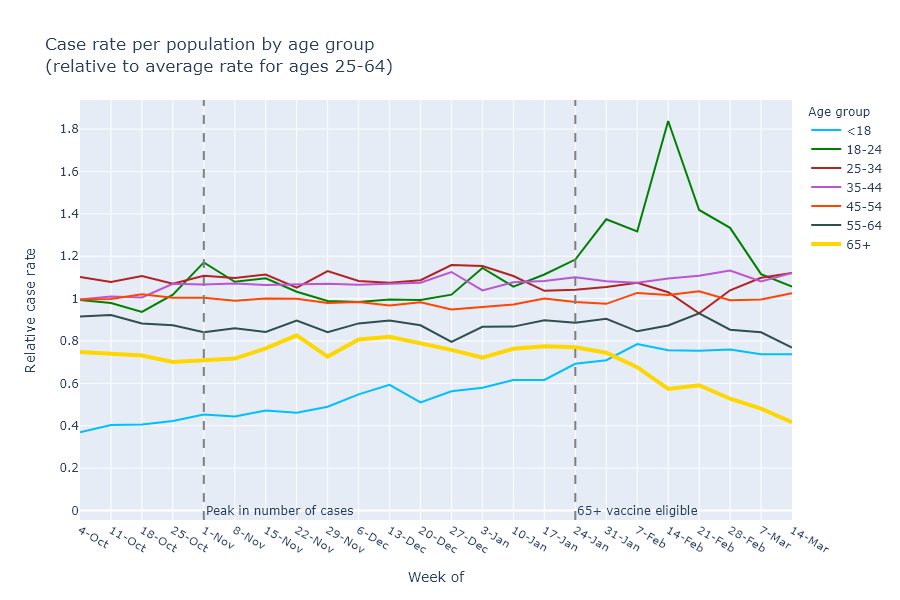
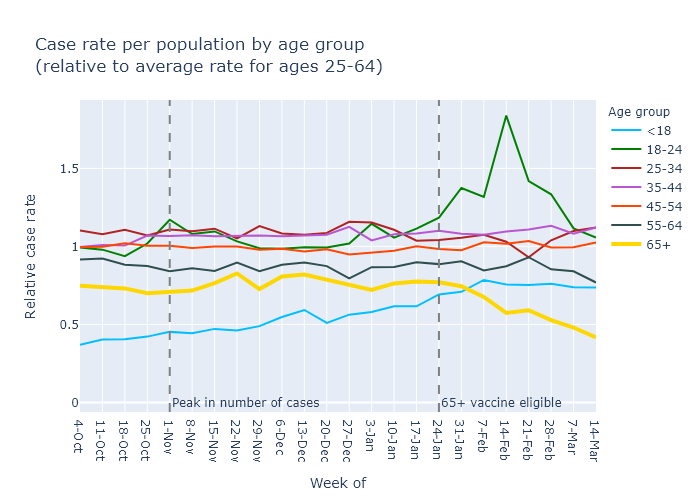
Plot update

Changed region(s): [[0.03, 0.06, 0.99, 0.99], [0.9, 0.9, 0.93, 0.93]]

diff --git a/docs/assets/plotly/CaseRateRelative-Age-Vaccine.html b/docs/assets/plotly/CaseRateRelative-Age-Vaccine.html
@@ -2,6 +2,6 @@
 <head><meta charset="utf-8" /></head>
 <body>
     <div>                        <script type="text/javascript">window.PlotlyConfig = {MathJaxConfig: 'local'};</script>
-        <script src="https://cdn.plot.ly/plotly-latest.min.js"></script>                <div id="7094463b-d644-48c4-b42c-b49eb8c41d9f" class="plotly-graph-div" style="height:500px; width:100%;"></div>            <script type="text/javascript">                                    window.PLOTLYENV=window.PLOTLYENV || {};                                    if (document.getElementById("7094463b-d644-48c4-b42c-b49eb8c41d9f")) {                    Plotly.newPlot(                        "7094463b-d644-48c4-b42c-b49eb8c41d9f",                        [{"hovertemplate": "Age group=<18<br>Week of=%{x}<br>Relative case rate=%{y}<extra></extra>", "legendgroup": "<18", "line": {"color": "deepskyblue", "dash": "solid"}, "mode": "lines", "name": "<18", "orientation": "v", "showlegend": true, "type": "scatter", "x": ["4-Oct", "11-Oct", "18-Oct", "25-Oct", "1-Nov", "8-Nov", "15-Nov", "22-Nov", "29-Nov", "6-Dec", "13-Dec", "20-Dec", "27-Dec", "3-Jan", "10-Jan", "17-Jan", "24-Jan", "31-Jan", "7-Feb", "14-Feb", "21-Feb", "28-Feb", "7-Mar", "14-Mar"], "xaxis": "x", "y": [0.3696901100057361, 0.40353974566147843, 0.4054767494556921, 0.42214903754933436, 0.452475434592763, 0.4441008389564592, 0.47159922332870824, 0.4616605421103092, 0.48941365153136523, 0.548037859290452, 0.5928631628556761, 0.5104661956869649, 0.562782413855569, 0.5798191600075194, 0.6162526755233644, 0.6159518417004679, 0.6924580318886813, 0.7093333634802653, 0.7852512821921568, 0.7561158829510572, 0.7534427264247662, 0.7600342843384881, 0.7379638211604383, 0.7368762217937043], "yaxis": "y"}, {"hovertemplate": "Age group=18-24<br>Week of=%{x}<br>Relative case rate=%{y}<extra></extra>", "legendgroup": "18-24", "line": {"color": "green", "dash": "solid"}, "mode": "lines", "name": "18-24", "orientation": "v", "showlegend": true, "type": "scatter", "x": ["4-Oct", "11-Oct", "18-Oct", "25-Oct", "1-Nov", "8-Nov", "15-Nov", "22-Nov", "29-Nov", "6-Dec", "13-Dec", "20-Dec", "27-Dec", "3-Jan", "10-Jan", "17-Jan", "24-Jan", "31-Jan", "7-Feb", "14-Feb", "21-Feb", "28-Feb", "7-Mar", "14-Mar"], "xaxis": "x", "y": [0.9938140016036552, 0.9794457143441914, 0.9372495356270916, 1.0184345530877692, 1.1706904101368314, 1.0794894448185972, 1.0961921746269305, 1.0324408487194188, 0.9883861634442025, 0.9844383768735897, 0.9952728744312905, 0.993862214329924, 1.018589658135286, 1.1445388627231765, 1.0564331580400532, 1.1138462470750128, 1.1842973816413893, 1.374333391743014, 1.3168059962914629, 1.8381437844155013, 1.4182451320936775, 1.3339377235328567, 1.1155267064053138, 1.057257187790967], "yaxis": "y"}, {"hovertemplate": "Age group=25-34<br>Week of=%{x}<br>Relative case rate=%{y}<extra></extra>", "legendgroup": "25-34", "line": {"color": "firebrick", "dash": "solid"}, "mode": "lines", "name": "25-34", "orientation": "v", "showlegend": true, "type": "scatter", "x": ["4-Oct", "11-Oct", "18-Oct", "25-Oct", "1-Nov", "8-Nov", "15-Nov", "22-Nov", "29-Nov", "6-Dec", "13-Dec", "20-Dec", "27-Dec", "3-Jan", "10-Jan", "17-Jan", "24-Jan", "31-Jan", "7-Feb", "14-Feb", "21-Feb", "28-Feb", "7-Mar", "14-Mar"], "xaxis": "x", "y": [1.10254638689946, 1.0788097723211383, 1.1067521112192251, 1.0698839670390943, 1.108103105125134, 1.097387715406263, 1.113541978829659, 1.0513269618057495, 1.1298572970899876, 1.0833896570232546, 1.0751404507745421, 1.0866742499093722, 1.1581224880168322, 1.153598537098294, 1.1067394988991035, 1.0368522668624542, 1.0419228330287633, 1.0551333781768946, 1.0751902171554146, 1.0298819785023021, 0.9307233679364758, 1.0392305520546674, 1.0983647570760013, 1.1213333809904196], "yaxis": "y"}, {"hovertemplate": "Age group=35-44<br>Week of=%{x}<br>Relative case rate=%{y}<extra></extra>", "legendgroup": "35-44", "line": {"color": "mediumorchid", "dash": "solid"}, "mode": "lines", "name": "35-44", "orientation": "v", "showlegend": true, "type": "scatter", "x": ["4-Oct", "11-Oct", "18-Oct", "25-Oct", "1-Nov", "8-Nov", "15-Nov", "22-Nov", "29-Nov", "6-Dec", "13-Dec", "20-Dec", "27-Dec", "3-Jan", "10-Jan", "17-Jan", "24-Jan", "31-Jan", "7-Feb", "14-Feb", "21-Feb", "28-Feb", "7-Mar", "14-Mar"], "xaxis": "x", "y": [0.9959886493095713, 1.0098632831126444, 1.0053829238553023, 1.0698839670390943, 1.0670622493797586, 1.0716589514364934, 1.0646470760765152, 1.068114617882488, 1.0705923627248615, 1.0656291708425456, 1.0720686209151864, 1.0750727454619413, 1.125564827711138, 1.038842661680139, 1.0773941333979908, 1.0830486549899894, 1.1001669665521103, 1.0817333793074047, 1.0751902171554146, 1.0950643822049795, 1.1080040094481856, 1.1322959746267272, 1.0812028077466886, 1.1213333809904196], "yaxis": "y"}, {"hovertemplate": "Age group=45-54<br>Week of=%{x}<br>Relative case rate=%{y}<extra></extra>", "legendgroup": "45-54", "line": {"color": "orangered", "dash": "solid"}, "mode": "lines", "name": "45-54", "orientation": "v", "showlegend": true, "type": "scatter", "x": ["4-Oct", "11-Oct", "18-Oct", "25-Oct", "1-Nov", "8-Nov", "15-Nov", "22-Nov", "29-Nov", "6-Dec", "13-Dec", "20-Dec", "27-Dec", "3-Jan", "10-Jan", "17-Jan", "24-Jan", "31-Jan", "7-Feb", "14-Feb", "21-Feb", "28-Feb", "7-Mar", "14-Mar"], "xaxis": "x", "y": [0.9959886493095713, 0.9976962556052632, 1.0203390334663727, 1.0039231799220107, 1.0044749443680612, 0.9899980918802679, 0.999979624048164, 0.9988655365659417, 0.9788273030627305, 0.9844383768735897, 0.967626405697088, 0.982260709882493, 0.948823243194513, 0.9603254837624541, 0.972589256608303, 1.0009217427632604, 0.9836786995054163, 0.9753333747853649, 1.026867061328205, 1.0168454977617667, 1.0341370754849732, 0.9926978407686374, 0.9953930611001262, 1.0252190911912407], "yaxis": "y"}, {"hovertemplate": "Age group=55-64<br>Week of=%{x}<br>Relative case rate=%{y}<extra></extra>", "legendgroup": "55-64", "line": {"color": "darkslategrey", "dash": "solid"}, "mode": "lines", "name": "55-64", "orientation": "v", "showlegend": true, "type": "scatter", "x": ["4-Oct", "11-Oct", "18-Oct", "25-Oct", "1-Nov", "8-Nov", "15-Nov", "22-Nov", "29-Nov", "6-Dec", "13-Dec", "20-Dec", "27-Dec", "3-Jan", "10-Jan", "17-Jan", "24-Jan", "31-Jan", "7-Feb", "14-Feb", "21-Feb", "28-Feb", "7-Mar", "14-Mar"], "xaxis": "x", "y": [0.9155266841906758, 0.9226662526430788, 0.8824104670531661, 0.8746400371725271, 0.8413375427801943, 0.8602356301196904, 0.8422541312960876, 0.8960411430959183, 0.841179713569534, 0.8829498844123949, 0.8969743189319038, 0.8739800017064702, 0.7953371303248125, 0.8667088485529066, 0.8677843798186152, 0.898263102479849, 0.8866051436331713, 0.9044000384373383, 0.8456552269761688, 0.8734442096158765, 0.9307233679364758, 0.8530997069105478, 0.8409355171363134, 0.7689143183934305], "yaxis": "y"}, {"hovertemplate": "Age group=65+<br>Week of=%{x}<br>Relative case rate=%{y}<extra></extra>", "legendgroup": "65+", "line": {"color": "gold", "dash": "solid", "width": 4}, "mode": "lines", "name": "65+", "orientation": "v", "showlegend": true, "type": "scatter", "x": ["4-Oct", "11-Oct", "18-Oct", "25-Oct", "1-Nov", "8-Nov", "15-Nov", "22-Nov", "29-Nov", "6-Dec", "13-Dec", "20-Dec", "27-Dec", "3-Jan", "10-Jan", "17-Jan", "24-Jan", "31-Jan", "7-Feb", "14-Feb", "21-Feb", "28-Feb", "7-Mar", "14-Mar"], "xaxis": "x", "y": [0.7480788108351365, 0.738133002114463, 0.7311875809856743, 0.7005035591834267, 0.7110328257886276, 0.7170494654183636, 0.7649686398475702, 0.8267920617793719, 0.7264733889918703, 0.8068335150664987, 0.820178572448008, 0.7889023024253093, 0.7581283756897335, 0.7217540585510268, 0.7629795030289274, 0.7750727341397554, 0.7701168765864773, 0.7448000316542785, 0.6765241815809351, 0.5736051525835607, 0.5909354717056989, 0.5273707279083386, 0.48053458122075055, 0.41649525579644153], "yaxis": "y"}],                        {"annotations": [{"align": "left", "showarrow": false, "text": "65+ vaccine eligible", "x": "24-Jan", "xanchor": "left", "y": 0}, {"align": "left", "showarrow": false, "text": "Peak in number of cases", "x": "1-Nov", "xanchor": "left", "y": 0}], "legend": {"title": {"text": "Age group"}, "tracegroupgap": 0}, "shapes": [{"line": {"color": "gray", "dash": "dash"}, "type": "line", "x0": "24-Jan", "x1": "24-Jan", "xref": "x", "y0": 0, "y1": 1, "yref": "paper"}, {"line": {"color": "gray", "dash": "dash"}, "type": "line", "x0": "1-Nov", "x1": "1-Nov", "xref": "x", "y0": 0, "y1": 1, "yref": "paper"}], "template": {"data": {"bar": [{"error_x": {"color": "#2a3f5f"}, "error_y": {"color": "#2a3f5f"}, "marker": {"line": {"color": "#E5ECF6", "width": 0.5}}, "type": "bar"}], "barpolar": [{"marker": {"line": {"color": "#E5ECF6", "width": 0.5}}, "type": "barpolar"}], "carpet": [{"aaxis": {"endlinecolor": "#2a3f5f", "gridcolor": "white", "linecolor": "white", "minorgridcolor": "white", "startlinecolor": "#2a3f5f"}, "baxis": {"endlinecolor": "#2a3f5f", "gridcolor": "white", "linecolor": "white", "minorgridcolor": "white", "startlinecolor": "#2a3f5f"}, "type": "carpet"}], "choropleth": [{"colorbar": {"outlinewidth": 0, "ticks": ""}, "type": "choropleth"}], "contour": [{"colorbar": {"outlinewidth": 0, "ticks": ""}, "colorscale": [[0.0, "#0d0887"], [0.1111111111111111, "#46039f"], [0.2222222222222222, "#7201a8"], [0.3333333333333333, "#9c179e"], [0.4444444444444444, "#bd3786"], [0.5555555555555556, "#d8576b"], [0.6666666666666666, "#ed7953"], [0.7777777777777778, "#fb9f3a"], [0.8888888888888888, "#fdca26"], [1.0, "#f0f921"]], "type": "contour"}], "contourcarpet": [{"colorbar": {"outlinewidth": 0, "ticks": ""}, "type": "contourcarpet"}], "heatmap": [{"colorbar": {"outlinewidth": 0, "ticks": ""}, "colorscale": [[0.0, "#0d0887"], [0.1111111111111111, "#46039f"], [0.2222222222222222, "#7201a8"], [0.3333333333333333, "#9c179e"], [0.4444444444444444, "#bd3786"], [0.5555555555555556, "#d8576b"], [0.6666666666666666, "#ed7953"], [0.7777777777777778, "#fb9f3a"], [0.8888888888888888, "#fdca26"], [1.0, "#f0f921"]], "type": "heatmap"}], "heatmapgl": [{"colorbar": {"outlinewidth": 0, "ticks": ""}, "colorscale": [[0.0, "#0d0887"], [0.1111111111111111, "#46039f"], [0.2222222222222222, "#7201a8"], [0.3333333333333333, "#9c179e"], [0.4444444444444444, "#bd3786"], [0.5555555555555556, "#d8576b"], [0.6666666666666666, "#ed7953"], [0.7777777777777778, "#fb9f3a"], [0.8888888888888888, "#fdca26"], [1.0, "#f0f921"]], "type": "heatmapgl"}], "histogram": [{"marker": {"colorbar": {"outlinewidth": 0, "ticks": ""}}, "type": "histogram"}], "histogram2d": [{"colorbar": {"outlinewidth": 0, "ticks": ""}, "colorscale": [[0.0, "#0d0887"], [0.1111111111111111, "#46039f"], [0.2222222222222222, "#7201a8"], [0.3333333333333333, "#9c179e"], [0.4444444444444444, "#bd3786"], [0.5555555555555556, "#d8576b"], [0.6666666666666666, "#ed7953"], [0.7777777777777778, "#fb9f3a"], [0.8888888888888888, "#fdca26"], [1.0, "#f0f921"]], "type": "histogram2d"}], "histogram2dcontour": [{"colorbar": {"outlinewidth": 0, "ticks": ""}, "colorscale": [[0.0, "#0d0887"], [0.1111111111111111, "#46039f"], [0.2222222222222222, "#7201a8"], [0.3333333333333333, "#9c179e"], [0.4444444444444444, "#bd3786"], [0.5555555555555556, "#d8576b"], [0.6666666666666666, "#ed7953"], [0.7777777777777778, "#fb9f3a"], [0.8888888888888888, "#fdca26"], [1.0, "#f0f921"]], "type": "histogram2dcontour"}], "mesh3d": [{"colorbar": {"outlinewidth": 0, "ticks": ""}, "type": "mesh3d"}], "parcoords": [{"line": {"colorbar": {"outlinewidth": 0, "ticks": ""}}, "type": "parcoords"}], "pie": [{"automargin": true, "type": "pie"}], "scatter": [{"marker": {"colorbar": {"outlinewidth": 0, "ticks": ""}}, "type": "scatter"}], "scatter3d": [{"line": {"colorbar": {"outlinewidth": 0, "ticks": ""}}, "marker": {"colorbar": {"outlinewidth": 0, "ticks": ""}}, "type": "scatter3d"}], "scattercarpet": [{"marker": {"colorbar": {"outlinewidth": 0, "ticks": ""}}, "type": "scattercarpet"}], "scattergeo": [{"marker": {"colorbar": {"outlinewidth": 0, "ticks": ""}}, "type": "scattergeo"}], "scattergl": [{"marker": {"colorbar": {"outlinewidth": 0, "ticks": ""}}, "type": "scattergl"}], "scattermapbox": [{"marker": {"colorbar": {"outlinewidth": 0, "ticks": ""}}, "type": "scattermapbox"}], "scatterpolar": [{"marker": {"colorbar": {"outlinewidth": 0, "ticks": ""}}, "type": "scatterpolar"}], "scatterpolargl": [{"marker": {"colorbar": {"outlinewidth": 0, "ticks": ""}}, "type": "scatterpolargl"}], "scatterternary": [{"marker": {"colorbar": {"outlinewidth": 0, "ticks": ""}}, "type": "scatterternary"}], "surface": [{"colorbar": {"outlinewidth": 0, "ticks": ""}, "colorscale": [[0.0, "#0d0887"], [0.1111111111111111, "#46039f"], [0.2222222222222222, "#7201a8"], [0.3333333333333333, "#9c179e"], [0.4444444444444444, "#bd3786"], [0.5555555555555556, "#d8576b"], [0.6666666666666666, "#ed7953"], [0.7777777777777778, "#fb9f3a"], [0.8888888888888888, "#fdca26"], [1.0, "#f0f921"]], "type": "surface"}], "table": [{"cells": {"fill": {"color": "#EBF0F8"}, "line": {"color": "white"}}, "header": {"fill": {"color": "#C8D4E3"}, "line": {"color": "white"}}, "type": "table"}]}, "layout": {"annotationdefaults": {"arrowcolor": "#2a3f5f", "arrowhead": 0, "arrowwidth": 1}, "autotypenumbers": "strict", "coloraxis": {"colorbar": {"outlinewidth": 0, "ticks": ""}}, "colorscale": {"diverging": [[0, "#8e0152"], [0.1, "#c51b7d"], [0.2, "#de77ae"], [0.3, "#f1b6da"], [0.4, "#fde0ef"], [0.5, "#f7f7f7"], [0.6, "#e6f5d0"], [0.7, "#b8e186"], [0.8, "#7fbc41"], [0.9, "#4d9221"], [1, "#276419"]], "sequential": [[0.0, "#0d0887"], [0.1111111111111111, "#46039f"], [0.2222222222222222, "#7201a8"], [0.3333333333333333, "#9c179e"], [0.4444444444444444, "#bd3786"], [0.5555555555555556, "#d8576b"], [0.6666666666666666, "#ed7953"], [0.7777777777777778, "#fb9f3a"], [0.8888888888888888, "#fdca26"], [1.0, "#f0f921"]], "sequentialminus": [[0.0, "#0d0887"], [0.1111111111111111, "#46039f"], [0.2222222222222222, "#7201a8"], [0.3333333333333333, "#9c179e"], [0.4444444444444444, "#bd3786"], [0.5555555555555556, "#d8576b"], [0.6666666666666666, "#ed7953"], [0.7777777777777778, "#fb9f3a"], [0.8888888888888888, "#fdca26"], [1.0, "#f0f921"]]}, "colorway": ["#636efa", "#EF553B", "#00cc96", "#ab63fa", "#FFA15A", "#19d3f3", "#FF6692", "#B6E880", "#FF97FF", "#FECB52"], "font": {"color": "#2a3f5f"}, "geo": {"bgcolor": "white", "lakecolor": "white", "landcolor": "#E5ECF6", "showlakes": true, "showland": true, "subunitcolor": "white"}, "hoverlabel": {"align": "left"}, "hovermode": "closest", "mapbox": {"style": "light"}, "paper_bgcolor": "white", "plot_bgcolor": "#E5ECF6", "polar": {"angularaxis": {"gridcolor": "white", "linecolor": "white", "ticks": ""}, "bgcolor": "#E5ECF6", "radialaxis": {"gridcolor": "white", "linecolor": "white", "ticks": ""}}, "scene": {"xaxis": {"backgroundcolor": "#E5ECF6", "gridcolor": "white", "gridwidth": 2, "linecolor": "white", "showbackground": true, "ticks": "", "zerolinecolor": "white"}, "yaxis": {"backgroundcolor": "#E5ECF6", "gridcolor": "white", "gridwidth": 2, "linecolor": "white", "showbackground": true, "ticks": "", "zerolinecolor": "white"}, "zaxis": {"backgroundcolor": "#E5ECF6", "gridcolor": "white", "gridwidth": 2, "linecolor": "white", "showbackground": true, "ticks": "", "zerolinecolor": "white"}}, "shapedefaults": {"line": {"color": "#2a3f5f"}}, "ternary": {"aaxis": {"gridcolor": "white", "linecolor": "white", "ticks": ""}, "baxis": {"gridcolor": "white", "linecolor": "white", "ticks": ""}, "bgcolor": "#E5ECF6", "caxis": {"gridcolor": "white", "linecolor": "white", "ticks": ""}}, "title": {"x": 0.05}, "xaxis": {"automargin": true, "gridcolor": "white", "linecolor": "white", "ticks": "", "title": {"standoff": 15}, "zerolinecolor": "white", "zerolinewidth": 2}, "yaxis": {"automargin": true, "gridcolor": "white", "linecolor": "white", "ticks": "", "title": {"standoff": 15}, "zerolinecolor": "white", "zerolinewidth": 2}}}, "title": {"text": "Case rate per population by age group<br>(relative to average rate for ages 25-64)"}, "xaxis": {"anchor": "y", "domain": [0.0, 1.0], "title": {"text": "Week of"}}, "yaxis": {"anchor": "x", "domain": [0.0, 1.0], "title": {"text": "Relative case rate"}}},                        {"responsive": true}                    )                };                            </script>        </div>
+        <script src="https://cdn.plot.ly/plotly-latest.min.js"></script>                <div id="d1352313-1ba8-4a7e-afe0-4c81cb061409" class="plotly-graph-div" style="height:500px; width:700px;"></div>            <script type="text/javascript">                                    window.PLOTLYENV=window.PLOTLYENV || {};                                    if (document.getElementById("d1352313-1ba8-4a7e-afe0-4c81cb061409")) {                    Plotly.newPlot(                        "d1352313-1ba8-4a7e-afe0-4c81cb061409",                        [{"hovertemplate": "Age group=<18<br>Week of=%{x}<br>Relative case rate=%{y}<extra></extra>", "legendgroup": "<18", "line": {"color": "deepskyblue", "dash": "solid"}, "mode": "lines", "name": "<18", "orientation": "v", "showlegend": true, "type": "scatter", "x": ["4-Oct", "11-Oct", "18-Oct", "25-Oct", "1-Nov", "8-Nov", "15-Nov", "22-Nov", "29-Nov", "6-Dec", "13-Dec", "20-Dec", "27-Dec", "3-Jan", "10-Jan", "17-Jan", "24-Jan", "31-Jan", "7-Feb", "14-Feb", "21-Feb", "28-Feb", "7-Mar", "14-Mar"], "xaxis": "x", "y": [0.3696901100057361, 0.40353974566147843, 0.4054767494556921, 0.42214903754933436, 0.452475434592763, 0.4441008389564592, 0.47159922332870824, 0.4616605421103092, 0.48941365153136523, 0.548037859290452, 0.5928631628556761, 0.5104661956869649, 0.562782413855569, 0.5798191600075194, 0.6162526755233644, 0.6159518417004679, 0.6924580318886813, 0.7093333634802653, 0.7852512821921568, 0.7561158829510572, 0.7534427264247662, 0.7600342843384881, 0.7379638211604383, 0.7368762217937043], "yaxis": "y"}, {"hovertemplate": "Age group=18-24<br>Week of=%{x}<br>Relative case rate=%{y}<extra></extra>", "legendgroup": "18-24", "line": {"color": "green", "dash": "solid"}, "mode": "lines", "name": "18-24", "orientation": "v", "showlegend": true, "type": "scatter", "x": ["4-Oct", "11-Oct", "18-Oct", "25-Oct", "1-Nov", "8-Nov", "15-Nov", "22-Nov", "29-Nov", "6-Dec", "13-Dec", "20-Dec", "27-Dec", "3-Jan", "10-Jan", "17-Jan", "24-Jan", "31-Jan", "7-Feb", "14-Feb", "21-Feb", "28-Feb", "7-Mar", "14-Mar"], "xaxis": "x", "y": [0.9938140016036552, 0.9794457143441914, 0.9372495356270916, 1.0184345530877692, 1.1706904101368314, 1.0794894448185972, 1.0961921746269305, 1.0324408487194188, 0.9883861634442025, 0.9844383768735897, 0.9952728744312905, 0.993862214329924, 1.018589658135286, 1.1445388627231765, 1.0564331580400532, 1.1138462470750128, 1.1842973816413893, 1.374333391743014, 1.3168059962914629, 1.8381437844155013, 1.4182451320936775, 1.3339377235328567, 1.1155267064053138, 1.057257187790967], "yaxis": "y"}, {"hovertemplate": "Age group=25-34<br>Week of=%{x}<br>Relative case rate=%{y}<extra></extra>", "legendgroup": "25-34", "line": {"color": "firebrick", "dash": "solid"}, "mode": "lines", "name": "25-34", "orientation": "v", "showlegend": true, "type": "scatter", "x": ["4-Oct", "11-Oct", "18-Oct", "25-Oct", "1-Nov", "8-Nov", "15-Nov", "22-Nov", "29-Nov", "6-Dec", "13-Dec", "20-Dec", "27-Dec", "3-Jan", "10-Jan", "17-Jan", "24-Jan", "31-Jan", "7-Feb", "14-Feb", "21-Feb", "28-Feb", "7-Mar", "14-Mar"], "xaxis": "x", "y": [1.10254638689946, 1.0788097723211383, 1.1067521112192251, 1.0698839670390943, 1.108103105125134, 1.097387715406263, 1.113541978829659, 1.0513269618057495, 1.1298572970899876, 1.0833896570232546, 1.0751404507745421, 1.0866742499093722, 1.1581224880168322, 1.153598537098294, 1.1067394988991035, 1.0368522668624542, 1.0419228330287633, 1.0551333781768946, 1.0751902171554146, 1.0298819785023021, 0.9307233679364758, 1.0392305520546674, 1.0983647570760013, 1.1213333809904196], "yaxis": "y"}, {"hovertemplate": "Age group=35-44<br>Week of=%{x}<br>Relative case rate=%{y}<extra></extra>", "legendgroup": "35-44", "line": {"color": "mediumorchid", "dash": "solid"}, "mode": "lines", "name": "35-44", "orientation": "v", "showlegend": true, "type": "scatter", "x": ["4-Oct", "11-Oct", "18-Oct", "25-Oct", "1-Nov", "8-Nov", "15-Nov", "22-Nov", "29-Nov", "6-Dec", "13-Dec", "20-Dec", "27-Dec", "3-Jan", "10-Jan", "17-Jan", "24-Jan", "31-Jan", "7-Feb", "14-Feb", "21-Feb", "28-Feb", "7-Mar", "14-Mar"], "xaxis": "x", "y": [0.9959886493095713, 1.0098632831126444, 1.0053829238553023, 1.0698839670390943, 1.0670622493797586, 1.0716589514364934, 1.0646470760765152, 1.068114617882488, 1.0705923627248615, 1.0656291708425456, 1.0720686209151864, 1.0750727454619413, 1.125564827711138, 1.038842661680139, 1.0773941333979908, 1.0830486549899894, 1.1001669665521103, 1.0817333793074047, 1.0751902171554146, 1.0950643822049795, 1.1080040094481856, 1.1322959746267272, 1.0812028077466886, 1.1213333809904196], "yaxis": "y"}, {"hovertemplate": "Age group=45-54<br>Week of=%{x}<br>Relative case rate=%{y}<extra></extra>", "legendgroup": "45-54", "line": {"color": "orangered", "dash": "solid"}, "mode": "lines", "name": "45-54", "orientation": "v", "showlegend": true, "type": "scatter", "x": ["4-Oct", "11-Oct", "18-Oct", "25-Oct", "1-Nov", "8-Nov", "15-Nov", "22-Nov", "29-Nov", "6-Dec", "13-Dec", "20-Dec", "27-Dec", "3-Jan", "10-Jan", "17-Jan", "24-Jan", "31-Jan", "7-Feb", "14-Feb", "21-Feb", "28-Feb", "7-Mar", "14-Mar"], "xaxis": "x", "y": [0.9959886493095713, 0.9976962556052632, 1.0203390334663727, 1.0039231799220107, 1.0044749443680612, 0.9899980918802679, 0.999979624048164, 0.9988655365659417, 0.9788273030627305, 0.9844383768735897, 0.967626405697088, 0.982260709882493, 0.948823243194513, 0.9603254837624541, 0.972589256608303, 1.0009217427632604, 0.9836786995054163, 0.9753333747853649, 1.026867061328205, 1.0168454977617667, 1.0341370754849732, 0.9926978407686374, 0.9953930611001262, 1.0252190911912407], "yaxis": "y"}, {"hovertemplate": "Age group=55-64<br>Week of=%{x}<br>Relative case rate=%{y}<extra></extra>", "legendgroup": "55-64", "line": {"color": "darkslategrey", "dash": "solid"}, "mode": "lines", "name": "55-64", "orientation": "v", "showlegend": true, "type": "scatter", "x": ["4-Oct", "11-Oct", "18-Oct", "25-Oct", "1-Nov", "8-Nov", "15-Nov", "22-Nov", "29-Nov", "6-Dec", "13-Dec", "20-Dec", "27-Dec", "3-Jan", "10-Jan", "17-Jan", "24-Jan", "31-Jan", "7-Feb", "14-Feb", "21-Feb", "28-Feb", "7-Mar", "14-Mar"], "xaxis": "x", "y": [0.9155266841906758, 0.9226662526430788, 0.8824104670531661, 0.8746400371725271, 0.8413375427801943, 0.8602356301196904, 0.8422541312960876, 0.8960411430959183, 0.841179713569534, 0.8829498844123949, 0.8969743189319038, 0.8739800017064702, 0.7953371303248125, 0.8667088485529066, 0.8677843798186152, 0.898263102479849, 0.8866051436331713, 0.9044000384373383, 0.8456552269761688, 0.8734442096158765, 0.9307233679364758, 0.8530997069105478, 0.8409355171363134, 0.7689143183934305], "yaxis": "y"}, {"hovertemplate": "Age group=65+<br>Week of=%{x}<br>Relative case rate=%{y}<extra></extra>", "legendgroup": "65+", "line": {"color": "gold", "dash": "solid", "width": 4}, "mode": "lines", "name": "65+", "orientation": "v", "showlegend": true, "type": "scatter", "x": ["4-Oct", "11-Oct", "18-Oct", "25-Oct", "1-Nov", "8-Nov", "15-Nov", "22-Nov", "29-Nov", "6-Dec", "13-Dec", "20-Dec", "27-Dec", "3-Jan", "10-Jan", "17-Jan", "24-Jan", "31-Jan", "7-Feb", "14-Feb", "21-Feb", "28-Feb", "7-Mar", "14-Mar"], "xaxis": "x", "y": [0.7480788108351365, 0.738133002114463, 0.7311875809856743, 0.7005035591834267, 0.7110328257886276, 0.7170494654183636, 0.7649686398475702, 0.8267920617793719, 0.7264733889918703, 0.8068335150664987, 0.820178572448008, 0.7889023024253093, 0.7581283756897335, 0.7217540585510268, 0.7629795030289274, 0.7750727341397554, 0.7701168765864773, 0.7448000316542785, 0.6765241815809351, 0.5736051525835607, 0.5909354717056989, 0.5273707279083386, 0.48053458122075055, 0.41649525579644153], "yaxis": "y"}],                        {"annotations": [{"align": "left", "showarrow": false, "text": "65+ vaccine eligible", "x": "24-Jan", "xanchor": "left", "y": 0}, {"align": "left", "showarrow": false, "text": "Peak in number of cases", "x": "1-Nov", "xanchor": "left", "y": 0}], "legend": {"title": {"text": "Age group"}, "tracegroupgap": 0}, "shapes": [{"line": {"color": "gray", "dash": "dash"}, "type": "line", "x0": "24-Jan", "x1": "24-Jan", "xref": "x", "y0": 0, "y1": 1, "yref": "paper"}, {"line": {"color": "gray", "dash": "dash"}, "type": "line", "x0": "1-Nov", "x1": "1-Nov", "xref": "x", "y0": 0, "y1": 1, "yref": "paper"}], "template": {"data": {"bar": [{"error_x": {"color": "#2a3f5f"}, "error_y": {"color": "#2a3f5f"}, "marker": {"line": {"color": "#E5ECF6", "width": 0.5}}, "type": "bar"}], "barpolar": [{"marker": {"line": {"color": "#E5ECF6", "width": 0.5}}, "type": "barpolar"}], "carpet": [{"aaxis": {"endlinecolor": "#2a3f5f", "gridcolor": "white", "linecolor": "white", "minorgridcolor": "white", "startlinecolor": "#2a3f5f"}, "baxis": {"endlinecolor": "#2a3f5f", "gridcolor": "white", "linecolor": "white", "minorgridcolor": "white", "startlinecolor": "#2a3f5f"}, "type": "carpet"}], "choropleth": [{"colorbar": {"outlinewidth": 0, "ticks": ""}, "type": "choropleth"}], "contour": [{"colorbar": {"outlinewidth": 0, "ticks": ""}, "colorscale": [[0.0, "#0d0887"], [0.1111111111111111, "#46039f"], [0.2222222222222222, "#7201a8"], [0.3333333333333333, "#9c179e"], [0.4444444444444444, "#bd3786"], [0.5555555555555556, "#d8576b"], [0.6666666666666666, "#ed7953"], [0.7777777777777778, "#fb9f3a"], [0.8888888888888888, "#fdca26"], [1.0, "#f0f921"]], "type": "contour"}], "contourcarpet": [{"colorbar": {"outlinewidth": 0, "ticks": ""}, "type": "contourcarpet"}], "heatmap": [{"colorbar": {"outlinewidth": 0, "ticks": ""}, "colorscale": [[0.0, "#0d0887"], [0.1111111111111111, "#46039f"], [0.2222222222222222, "#7201a8"], [0.3333333333333333, "#9c179e"], [0.4444444444444444, "#bd3786"], [0.5555555555555556, "#d8576b"], [0.6666666666666666, "#ed7953"], [0.7777777777777778, "#fb9f3a"], [0.8888888888888888, "#fdca26"], [1.0, "#f0f921"]], "type": "heatmap"}], "heatmapgl": [{"colorbar": {"outlinewidth": 0, "ticks": ""}, "colorscale": [[0.0, "#0d0887"], [0.1111111111111111, "#46039f"], [0.2222222222222222, "#7201a8"], [0.3333333333333333, "#9c179e"], [0.4444444444444444, "#bd3786"], [0.5555555555555556, "#d8576b"], [0.6666666666666666, "#ed7953"], [0.7777777777777778, "#fb9f3a"], [0.8888888888888888, "#fdca26"], [1.0, "#f0f921"]], "type": "heatmapgl"}], "histogram": [{"marker": {"colorbar": {"outlinewidth": 0, "ticks": ""}}, "type": "histogram"}], "histogram2d": [{"colorbar": {"outlinewidth": 0, "ticks": ""}, "colorscale": [[0.0, "#0d0887"], [0.1111111111111111, "#46039f"], [0.2222222222222222, "#7201a8"], [0.3333333333333333, "#9c179e"], [0.4444444444444444, "#bd3786"], [0.5555555555555556, "#d8576b"], [0.6666666666666666, "#ed7953"], [0.7777777777777778, "#fb9f3a"], [0.8888888888888888, "#fdca26"], [1.0, "#f0f921"]], "type": "histogram2d"}], "histogram2dcontour": [{"colorbar": {"outlinewidth": 0, "ticks": ""}, "colorscale": [[0.0, "#0d0887"], [0.1111111111111111, "#46039f"], [0.2222222222222222, "#7201a8"], [0.3333333333333333, "#9c179e"], [0.4444444444444444, "#bd3786"], [0.5555555555555556, "#d8576b"], [0.6666666666666666, "#ed7953"], [0.7777777777777778, "#fb9f3a"], [0.8888888888888888, "#fdca26"], [1.0, "#f0f921"]], "type": "histogram2dcontour"}], "mesh3d": [{"colorbar": {"outlinewidth": 0, "ticks": ""}, "type": "mesh3d"}], "parcoords": [{"line": {"colorbar": {"outlinewidth": 0, "ticks": ""}}, "type": "parcoords"}], "pie": [{"automargin": true, "type": "pie"}], "scatter": [{"marker": {"colorbar": {"outlinewidth": 0, "ticks": ""}}, "type": "scatter"}], "scatter3d": [{"line": {"colorbar": {"outlinewidth": 0, "ticks": ""}}, "marker": {"colorbar": {"outlinewidth": 0, "ticks": ""}}, "type": "scatter3d"}], "scattercarpet": [{"marker": {"colorbar": {"outlinewidth": 0, "ticks": ""}}, "type": "scattercarpet"}], "scattergeo": [{"marker": {"colorbar": {"outlinewidth": 0, "ticks": ""}}, "type": "scattergeo"}], "scattergl": [{"marker": {"colorbar": {"outlinewidth": 0, "ticks": ""}}, "type": "scattergl"}], "scattermapbox": [{"marker": {"colorbar": {"outlinewidth": 0, "ticks": ""}}, "type": "scattermapbox"}], "scatterpolar": [{"marker": {"colorbar": {"outlinewidth": 0, "ticks": ""}}, "type": "scatterpolar"}], "scatterpolargl": [{"marker": {"colorbar": {"outlinewidth": 0, "ticks": ""}}, "type": "scatterpolargl"}], "scatterternary": [{"marker": {"colorbar": {"outlinewidth": 0, "ticks": ""}}, "type": "scatterternary"}], "surface": [{"colorbar": {"outlinewidth": 0, "ticks": ""}, "colorscale": [[0.0, "#0d0887"], [0.1111111111111111, "#46039f"], [0.2222222222222222, "#7201a8"], [0.3333333333333333, "#9c179e"], [0.4444444444444444, "#bd3786"], [0.5555555555555556, "#d8576b"], [0.6666666666666666, "#ed7953"], [0.7777777777777778, "#fb9f3a"], [0.8888888888888888, "#fdca26"], [1.0, "#f0f921"]], "type": "surface"}], "table": [{"cells": {"fill": {"color": "#EBF0F8"}, "line": {"color": "white"}}, "header": {"fill": {"color": "#C8D4E3"}, "line": {"color": "white"}}, "type": "table"}]}, "layout": {"annotationdefaults": {"arrowcolor": "#2a3f5f", "arrowhead": 0, "arrowwidth": 1}, "autotypenumbers": "strict", "coloraxis": {"colorbar": {"outlinewidth": 0, "ticks": ""}}, "colorscale": {"diverging": [[0, "#8e0152"], [0.1, "#c51b7d"], [0.2, "#de77ae"], [0.3, "#f1b6da"], [0.4, "#fde0ef"], [0.5, "#f7f7f7"], [0.6, "#e6f5d0"], [0.7, "#b8e186"], [0.8, "#7fbc41"], [0.9, "#4d9221"], [1, "#276419"]], "sequential": [[0.0, "#0d0887"], [0.1111111111111111, "#46039f"], [0.2222222222222222, "#7201a8"], [0.3333333333333333, "#9c179e"], [0.4444444444444444, "#bd3786"], [0.5555555555555556, "#d8576b"], [0.6666666666666666, "#ed7953"], [0.7777777777777778, "#fb9f3a"], [0.8888888888888888, "#fdca26"], [1.0, "#f0f921"]], "sequentialminus": [[0.0, "#0d0887"], [0.1111111111111111, "#46039f"], [0.2222222222222222, "#7201a8"], [0.3333333333333333, "#9c179e"], [0.4444444444444444, "#bd3786"], [0.5555555555555556, "#d8576b"], [0.6666666666666666, "#ed7953"], [0.7777777777777778, "#fb9f3a"], [0.8888888888888888, "#fdca26"], [1.0, "#f0f921"]]}, "colorway": ["#636efa", "#EF553B", "#00cc96", "#ab63fa", "#FFA15A", "#19d3f3", "#FF6692", "#B6E880", "#FF97FF", "#FECB52"], "font": {"color": "#2a3f5f"}, "geo": {"bgcolor": "white", "lakecolor": "white", "landcolor": "#E5ECF6", "showlakes": true, "showland": true, "subunitcolor": "white"}, "hoverlabel": {"align": "left"}, "hovermode": "closest", "mapbox": {"style": "light"}, "paper_bgcolor": "white", "plot_bgcolor": "#E5ECF6", "polar": {"angularaxis": {"gridcolor": "white", "linecolor": "white", "ticks": ""}, "bgcolor": "#E5ECF6", "radialaxis": {"gridcolor": "white", "linecolor": "white", "ticks": ""}}, "scene": {"xaxis": {"backgroundcolor": "#E5ECF6", "gridcolor": "white", "gridwidth": 2, "linecolor": "white", "showbackground": true, "ticks": "", "zerolinecolor": "white"}, "yaxis": {"backgroundcolor": "#E5ECF6", "gridcolor": "white", "gridwidth": 2, "linecolor": "white", "showbackground": true, "ticks": "", "zerolinecolor": "white"}, "zaxis": {"backgroundcolor": "#E5ECF6", "gridcolor": "white", "gridwidth": 2, "linecolor": "white", "showbackground": true, "ticks": "", "zerolinecolor": "white"}}, "shapedefaults": {"line": {"color": "#2a3f5f"}}, "ternary": {"aaxis": {"gridcolor": "white", "linecolor": "white", "ticks": ""}, "baxis": {"gridcolor": "white", "linecolor": "white", "ticks": ""}, "bgcolor": "#E5ECF6", "caxis": {"gridcolor": "white", "linecolor": "white", "ticks": ""}}, "title": {"x": 0.05}, "xaxis": {"automargin": true, "gridcolor": "white", "linecolor": "white", "ticks": "", "title": {"standoff": 15}, "zerolinecolor": "white", "zerolinewidth": 2}, "yaxis": {"automargin": true, "gridcolor": "white", "linecolor": "white", "ticks": "", "title": {"standoff": 15}, "zerolinecolor": "white", "zerolinewidth": 2}}}, "title": {"text": "Case rate per population by age group<br>(relative to average rate for ages 25-64)"}, "xaxis": {"anchor": "y", "domain": [0.0, 1.0], "title": {"text": "Week of"}}, "yaxis": {"anchor": "x", "domain": [0.0, 1.0], "title": {"text": "Relative case rate"}}},                        {"responsive": true}                    )                };                            </script>        </div>
 </body>
 </html>

diff --git a/BlogAgeAfterVaccines.py b/BlogAgeAfterVaccines.py
@@ -179,17 +179,18 @@ htmlfile='docs\\assets\\plotly\\CaseRateRelative-Age-Vaccine.html'
 fig.write_html(
     file=htmlfile,
     default_height=500,
+    default_width=700,
     include_plotlyjs='cdn',
     )   
 
 os.startfile(htmlfile)
 
 
-save_png = '.\\docs\\assets\\CaseRateRelative-Age-Vaccine.png'
+save_png = '.\\docs\\assets\\CaseRateRelative-Age-Vaccine_2021-03-20.png'
 fig.write_image(
     save_png,
-    width=900,
-    height=600,
+    width=700,
+    height=500,
     engine='kaleido',
 )
 os.startfile(save_png)
